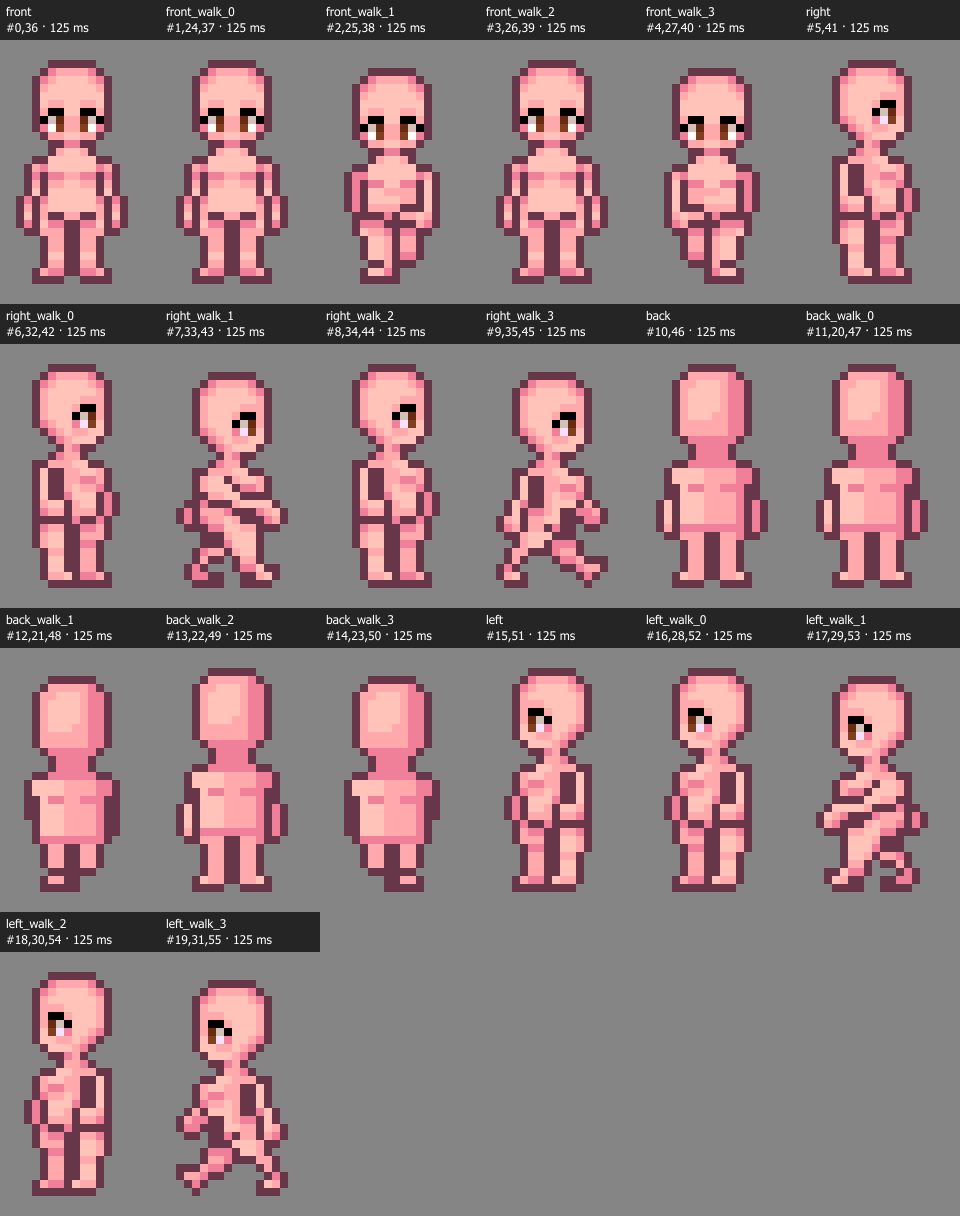
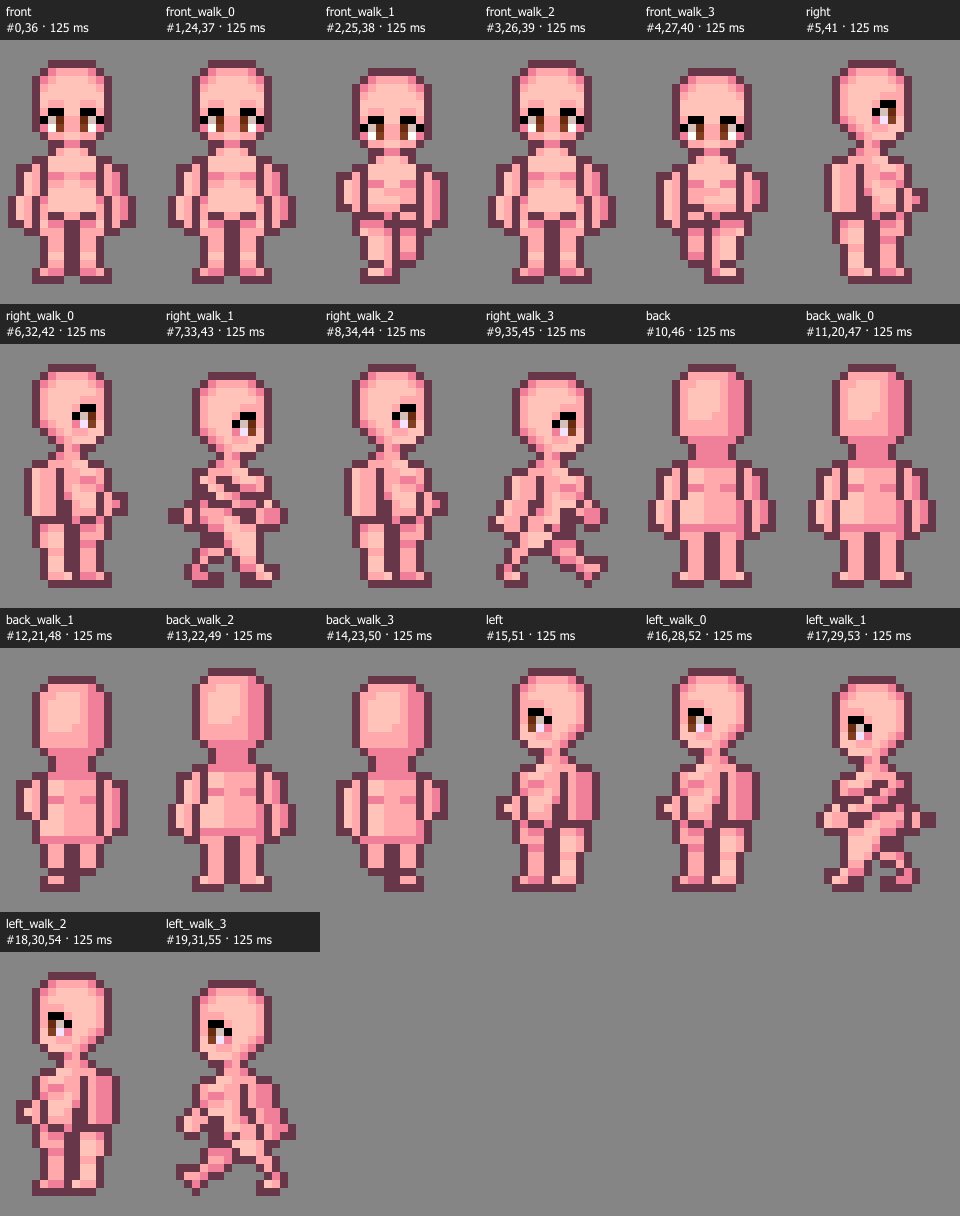
fix: add actual arm volume to large mannequin poses

diff --git a/tests/native-large.test.js b/tests/native-large.test.js
@@ -24,3 +24,18 @@ test('large body remains fully skin-selectable in all seven ramps',()=>{
   }
  }
 });
+
+test('large arms contain two adjacent skin pixels inside their outline in every pose',()=>{
+ const ops=nativeMannequin('large');
+ for(const {cell,as:alias} of ops.filter(o=>o.command==='name')){
+  const names=ops.find(o=>o.command==='shape-group'&&o.cell===cell&&o.name==='arms')?.shapes;
+  expect(names,alias).toBeDefined();
+  const arm=ops.filter(o=>o.command==='draw'&&o.cell===cell&&names.includes(o.name)&&o.color!=='#673649');
+  const rows=new Set(arm.filter(p=>arm.some(q=>q.y===p.y&&q.x===p.x+1)).map(p=>p.y));
+  expect(rows.size,alias).toBeGreaterThanOrEqual(3);
+ }
+ for(const cell of ['0,0','2,0'])for(const y of [16,17,18]){
+  const points=ops.filter(o=>o.command==='draw'&&o.cell===cell&&o.y===y);
+  for(const x of [2,3,12,13])expect(points.find(p=>p.x===x)?.color).not.toBe('#673649');
+ }
+});

diff --git a/examples/native-character/README.md b/examples/native-character/README.md
@@ -67,6 +67,6 @@ The [cast example](cast/README.md) applies the new format to eight residents: th
 node scripts/run-managed.js build examples/native-character/large.build.json
 ```
 
-The neutral front torso/shoulders span x=2..13 (12 pixels versus the adult's 10); hands reach x=1..14. The bare head remains x=3..12. Thicker thighs/calves and a deeper profile provide a base for muscular or armored designs without changing the ground row. A split expansion adds two body columns, preserves the central leg separation and neck, and adds pectoral shading. Rear shoulder and arm contours expand with the body. All body pixels retain semantic skin groups and support the seven skin ramps.
+The neutral front torso/shoulders span x=2..13 (12 pixels versus the adult's 10); bulkier forearms reach x=0..15. The bare head remains x=3..12. Thicker thighs/calves and a deeper profile provide a base for muscular or armored designs without changing the ground row. A split expansion adds two body columns, preserves the central leg separation and neck, and adds pectoral shading. Pose-specific arm bands add two interior skin columns between outlines (three in some profile sections), with separate light/shadow clusters. The `arms` group exposes these pixels for further editing. Rear shoulder and arm contours expand with the body. All body pixels retain semantic skin groups and support the seven skin ramps.
 
 Select **Large** in `review.html` to inspect it. Adult wig sheets align because the head is unchanged. Existing clothing is not fitted to this body; the review page locks clothing to the bare mannequin for Large. Armor silhouettes and costume-specific padding remain a later design pass. The committed `preview/large.png` shows every authored pose.
